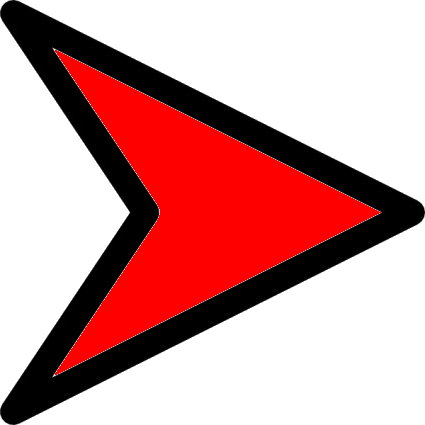
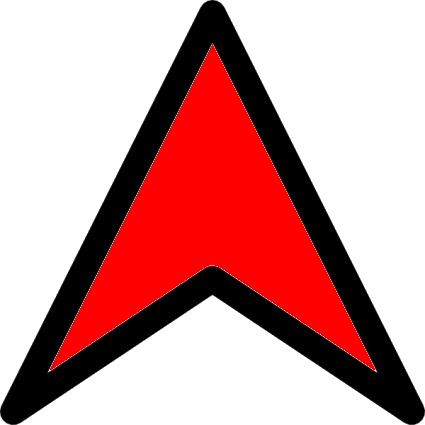
Compass testing 2 maybe working now?

diff --git a/GrizSpace/MapViewController.m b/GrizSpace/MapViewController.m
@@ -372,34 +372,17 @@
             } 
             
             
-            float theNewHeading = theHeading;// - 90;
+            float theNewHeading = theHeading; // - 90;
             if(theNewHeading < 0)
             {
                 theNewHeading = 360 + theNewHeading;
             }
 
-            int diffAngle = floor((float)annotationAngle);
-            
-            if(annotationAngle < theNewHeading)
-            {
-                diffAngle = annotationAngle + (theNewHeading - annotationAngle);
-                NSLog(@"add %i diff: %f", diffAngle, (theNewHeading - annotationAngle));
-            }
-            else if (annotationAngle > theNewHeading) {
-                diffAngle = annotationAngle - (annotationAngle - theNewHeading);
-                NSLog(@"Sub %i diff %f", diffAngle, (annotationAngle - theNewHeading));
-            }
-            
-            
-            //diffAngle = diffAngle - 90;
-            if(diffAngle < 0) //third and fourth quards.
-            {
-                diffAngle = 360 + diffAngle;
-            }
-            
+            int diffAngle = annotationAngle - theNewHeading;
+
             float diffRad = degreesToRadians(diffAngle);
             
-            NSLog(@"Heading: %f, Annotation: %i, Difference: %i DifRad: %f", theNewHeading, annotationAngle, diffAngle, diffRad);
+            //NSLog(@"Heading: %f, Annotation: %i, Difference: %i DifRad: %f", theNewHeading, annotationAngle, diffAngle, diffRad);
             DirectionCompas.transform = CGAffineTransformMakeRotation(diffRad);  
             
         }
@@ -453,61 +436,51 @@
             
         }
         
-        
-        
-        //find building angle to current location.
-        float testY = (destCord.coordinate.latitude - newLocation.coordinate.latitude); 
-        float testX = (destCord.coordinate.longitude - newLocation.coordinate.longitude); 
-        testY = testY * -1;
-        float annotationAngleRad = atan2f(testY, testX);        
-        int annotationAngle = floor(radiansToDegrees(annotationAngleRad));
-        
-        
-        if(annotationAngle < 0) //third and fourth quards.
+        if(!(CLLocationManager.locationServicesEnabled && CLLocationManager.headingAvailable))       
         {
-            annotationAngle = 360 + annotationAngle;
+            //find building angle to current location.
+            float testY = (destCord.coordinate.latitude - newLocation.coordinate.latitude); 
+            float testX = (destCord.coordinate.longitude - newLocation.coordinate.longitude); 
+            testY = testY * -1;
+            float annotationAngleRad = atan2f(testY, testX);        
+            int annotationAngle = floor(radiansToDegrees(annotationAngleRad));
+            
+            
+            if(annotationAngle < 0) //third and fourth quards.
+            {
+                annotationAngle = 360 + annotationAngle;
+            }
+
+            //find find angle of travel
+            float headingY = newLocation.coordinate.latitude - oldLocation.coordinate.latitude; 
+            float headingX = newLocation.coordinate.longitude - oldLocation.coordinate.longitude; 
+            headingY = headingY * -1;
+            float headingAngleRad = atan2f(headingY, headingX);
+            int headingAngle = floor(radiansToDegrees(headingAngleRad));
+            
+            
+            if(headingAngle < 0) //third and fourth quards.
+            {
+                headingAngle = 360 + headingAngle;
+            }
+
+            int diffAngle = headingAngle;
+            
+            if(headingAngle > annotationAngle)
+            {
+                diffAngle = annotationAngle - headingAngle;
+            }
+            else if (headingAngle < annotationAngle) {
+                diffAngle = headingAngle - annotationAngle;
+            }
+
+            
+            float diffRad = degreesToRadians(diffAngle);
+            
+            //NSLog(@"Direction: %i, Destination: %i, Difference: %i DifRad: %f", headingAngle, annotationAngle, diffAngle, diffRad);
+            DirectionCompas.transform = CGAffineTransformMakeRotation(diffRad);  
+       
         }
-        
-        
-        
-        
-        //NSLog(@"X: %f and Y: %f Rad: %f and Deg: %i", testX, testY, annotationAngleRad, annotationAngle);
-        
-        //find find angle of travel
-        float headingY = newLocation.coordinate.latitude - oldLocation.coordinate.latitude; 
-        float headingX = newLocation.coordinate.longitude - oldLocation.coordinate.longitude; 
-        headingY = headingY * -1;
-        float headingAngleRad = atan2f(headingY, headingX);
-        int headingAngle = floor(radiansToDegrees(headingAngleRad));
-        
-        
-        if(headingAngle < 0) //third and fourth quards.
-        {
-            headingAngle = 360 + headingAngle;
-        }
-        
-        //NSLog(@"X: %f and Y: %f Rad: %f and Deg: %i", headingX, headingY, headingAngleRad, headingAngle);
-        
-        int diffAngle = headingAngle;// - (annotationAngle - headingAngle);//annotationAngle + headingAngle; // + (annotationAngle - headingAngle);
-        if(headingAngle < annotationAngle)
-        {
-            diffAngle = headingAngle + (annotationAngle - headingAngle);
-        }
-        else if (headingAngle > annotationAngle) {
-            diffAngle = headingAngle - (headingAngle - annotationAngle);
-        }
-        
-        
-        
-        if(diffAngle < 0) //third and fourth quards.
-        {
-            diffAngle = 360 + diffAngle;
-        }
-        
-        float diffRad = degreesToRadians(diffAngle);
-        
-        //NSLog(@"Direction: %i, Destination: %i, Difference: %i DifRad: %f", headingAngle, annotationAngle, diffAngle, diffRad);
-        //DirectionCompas.transform = CGAffineTransformMakeRotation(diffRad);  
         
     }
     else { //show current walking direction
@@ -516,7 +489,7 @@
         dy = dy * -1;
         float directionAngleRad = atan2f(dy, dx);
         
-        int directionAngle = floor(radiansToDegrees(directionAngleRad));
+        int directionAngle = floor(radiansToDegrees(directionAngleRad) + 90);
         
         
         if(directionAngle < 0) //third and fourth quards.
